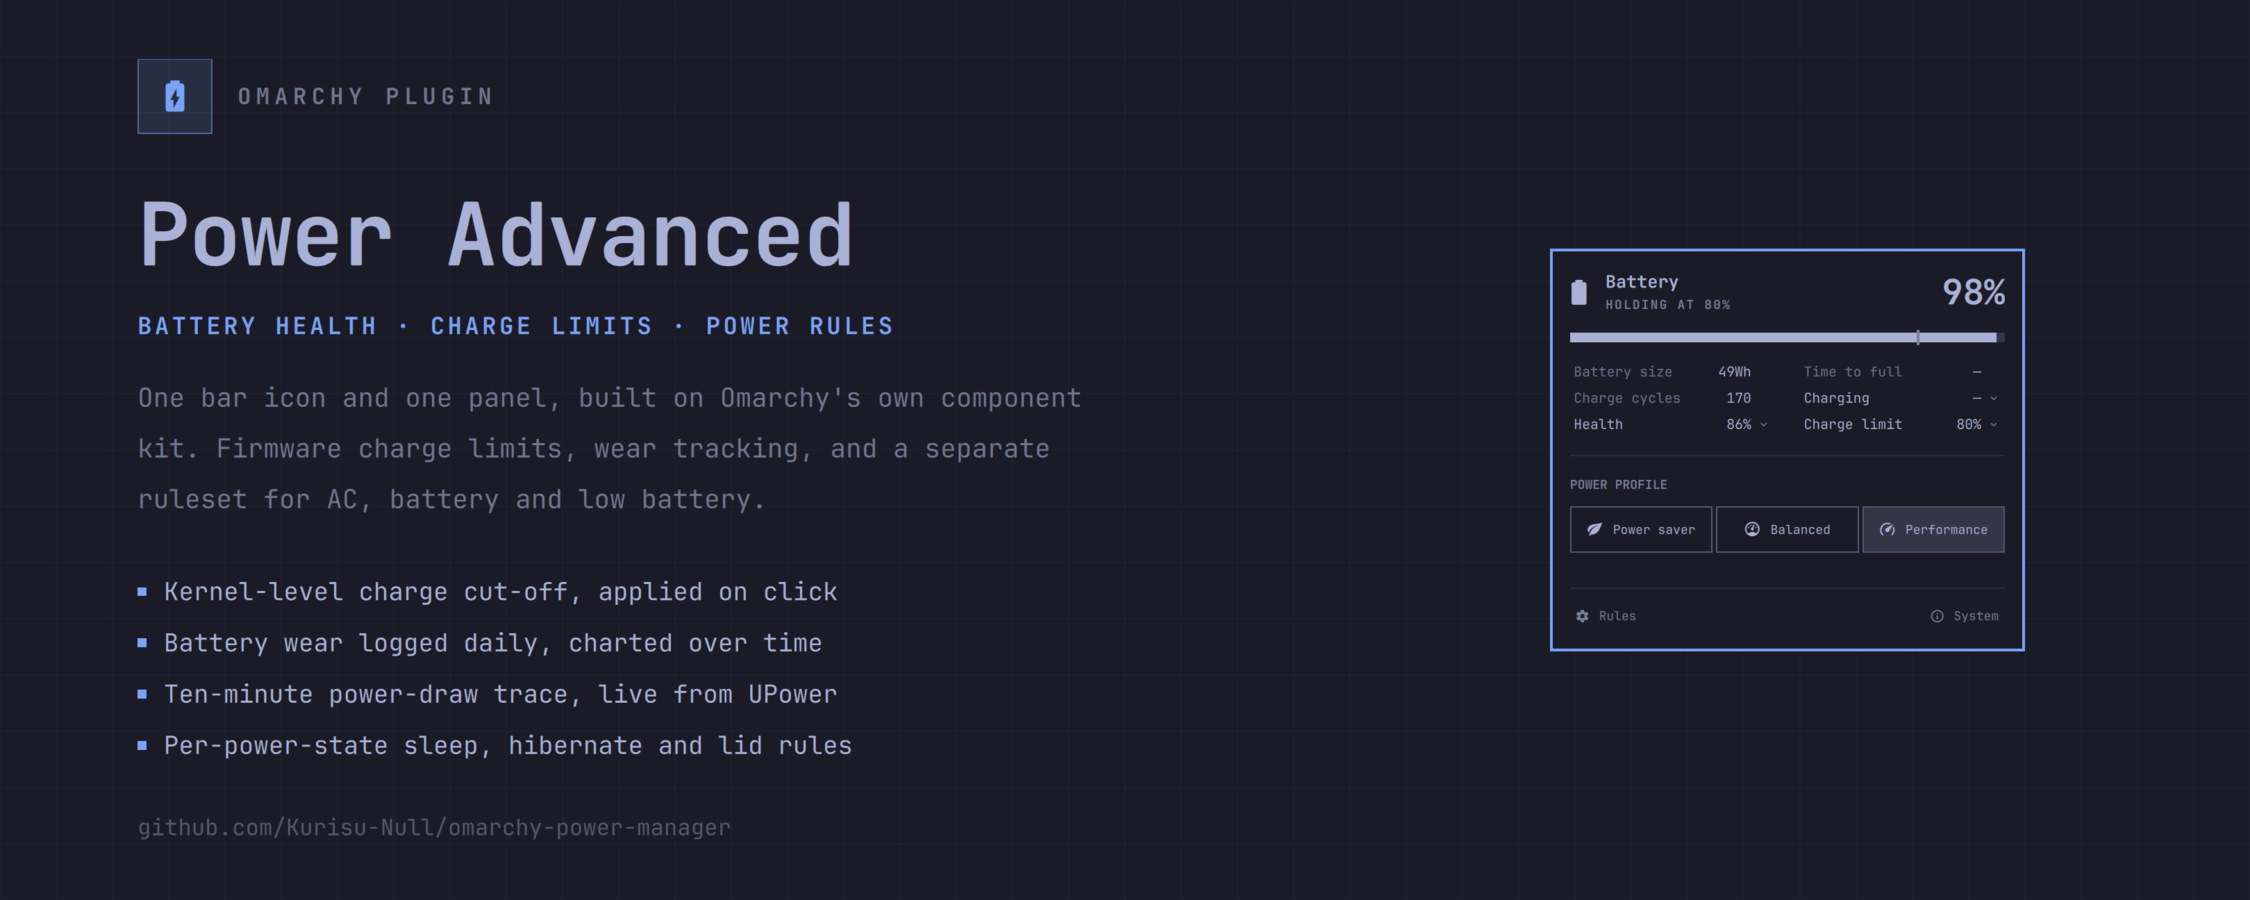
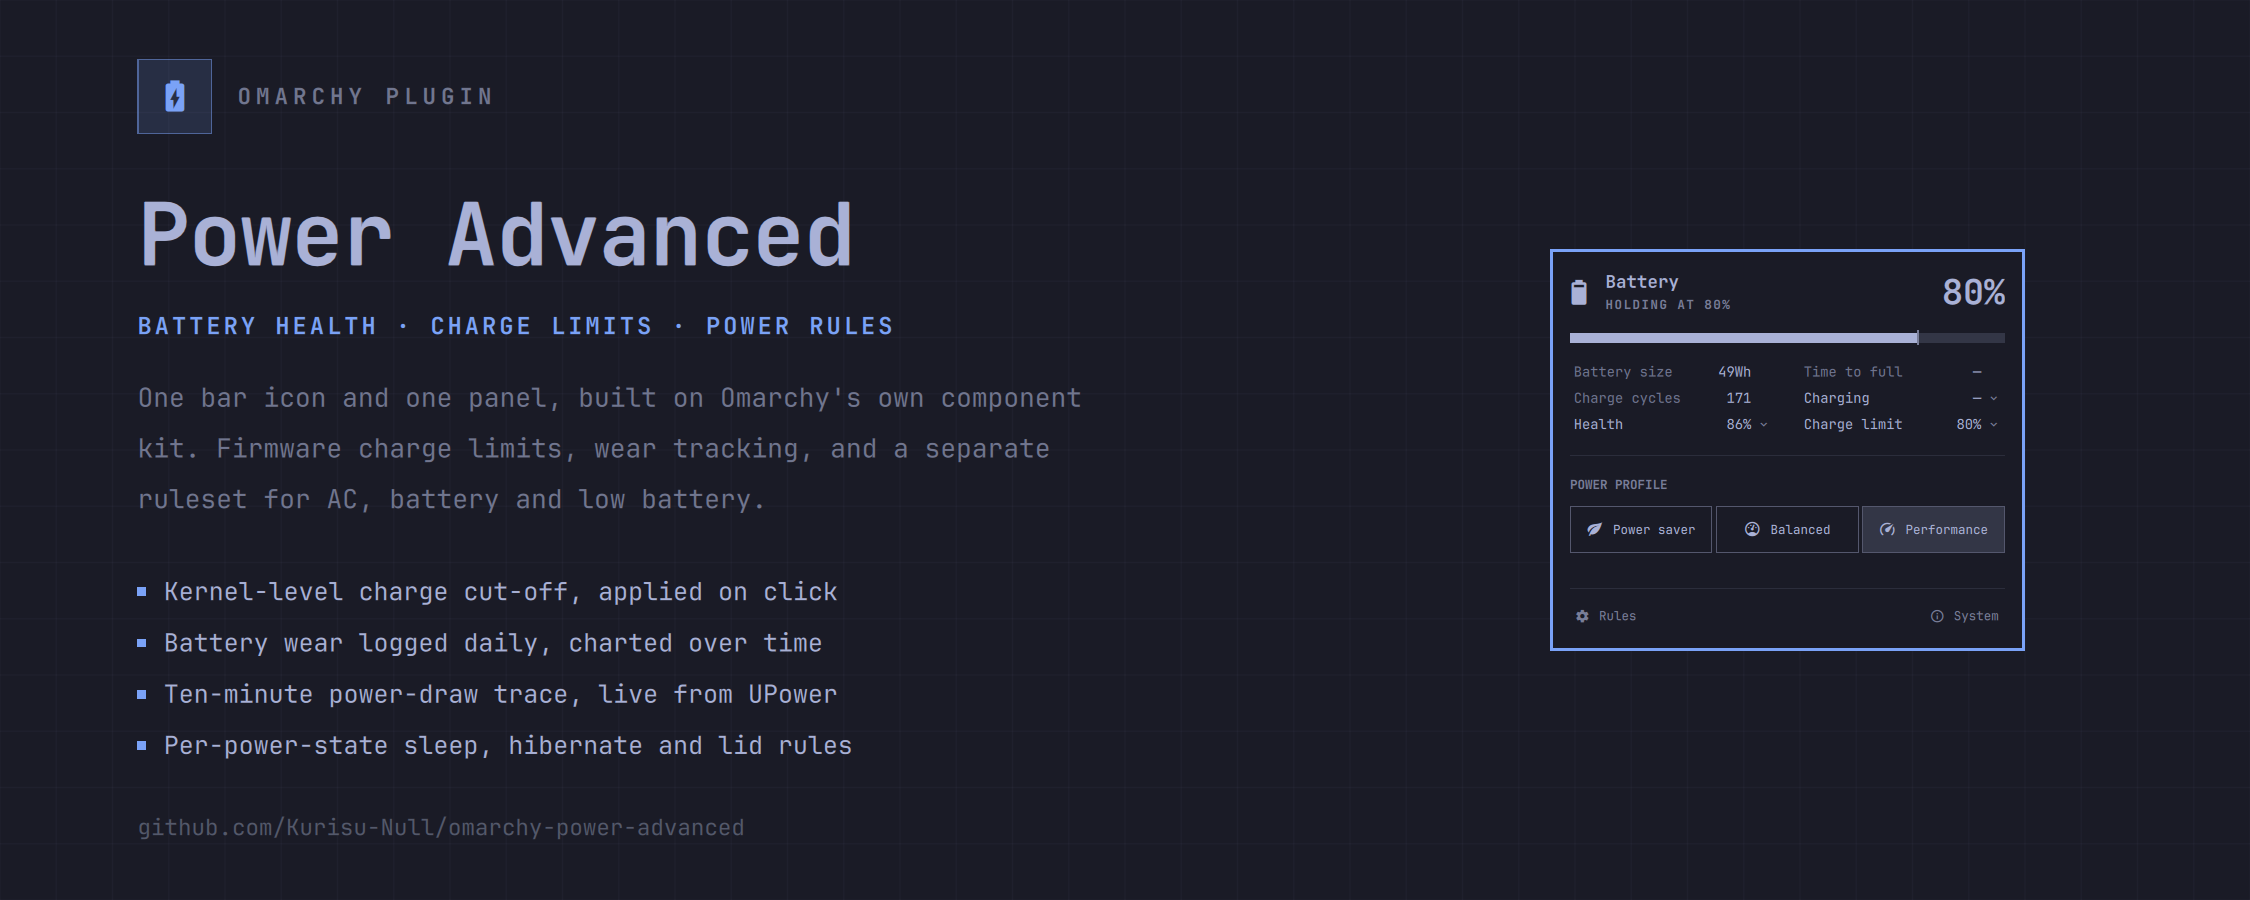
chore: point at the renamed repository
The repository is now Kurisu-Null/omarchy-power-advanced, matching the
plugin name. GitHub redirects the old URL, but the install command in the
README is the one people copy, so it should name the real location.

- manifest homepage and repository
- the `omarchy plugin add` and `git clone` commands in the README
- the URL rendered into the banner and the social preview

The Credits link to onlyVishesh/omarchy-power-manager is unchanged; that
is a different repository.

diff --git a/README.md b/README.md
@@ -124,7 +124,7 @@ Unlike generic power scripts, Power Advanced features **dynamic hardware awarene
 
 ### Option 1: `omarchy plugin add` (Recommended)
 ```bash
-omarchy plugin add https://github.com/Kurisu-Null/omarchy-power-manager.git --enable
+omarchy plugin add https://github.com/Kurisu-Null/omarchy-power-advanced.git --enable
 ```
 This is the supported path: Omarchy clones the repo, runs `omarchy plugin validate` on it and refuses anything malformed, installs it to `~/.config/omarchy/plugins/<manifest id>`, and offers to place the widget in your bar. It also makes `omarchy plugin update` work later.
 
@@ -137,7 +137,7 @@ omarchy restart shell
 ### Option 2: Manual clone
 The install directory name **must** match the `id` in `manifest.json`, or the shell will not find the plugin:
 ```bash
-git clone https://github.com/Kurisu-Null/omarchy-power-manager.git \
+git clone https://github.com/Kurisu-Null/omarchy-power-advanced.git \
   ~/.config/omarchy/plugins/kurisu-null.power-advanced
 sudo ~/.config/omarchy/plugins/kurisu-null.power-advanced/extras/install.sh
 omarchy restart shell
